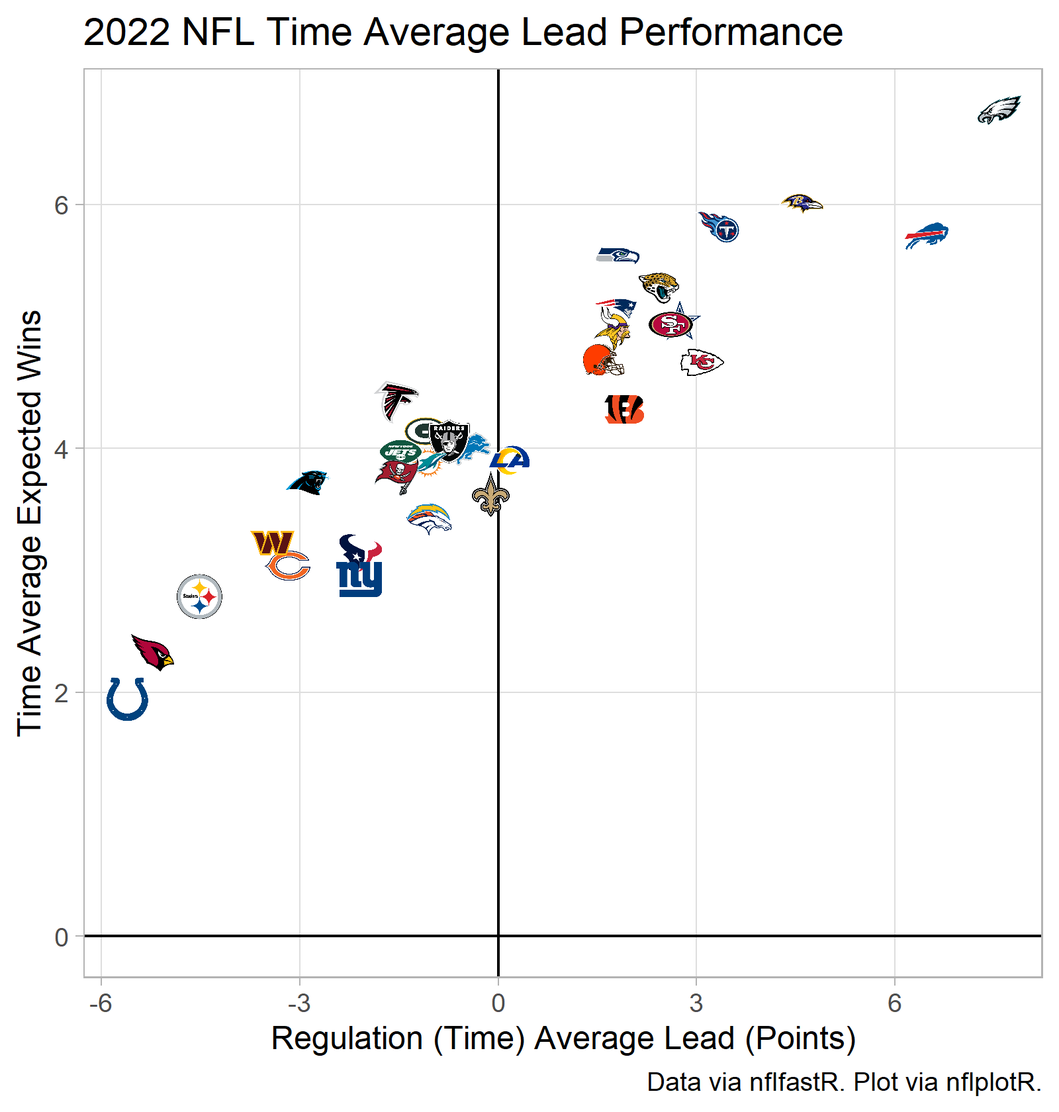
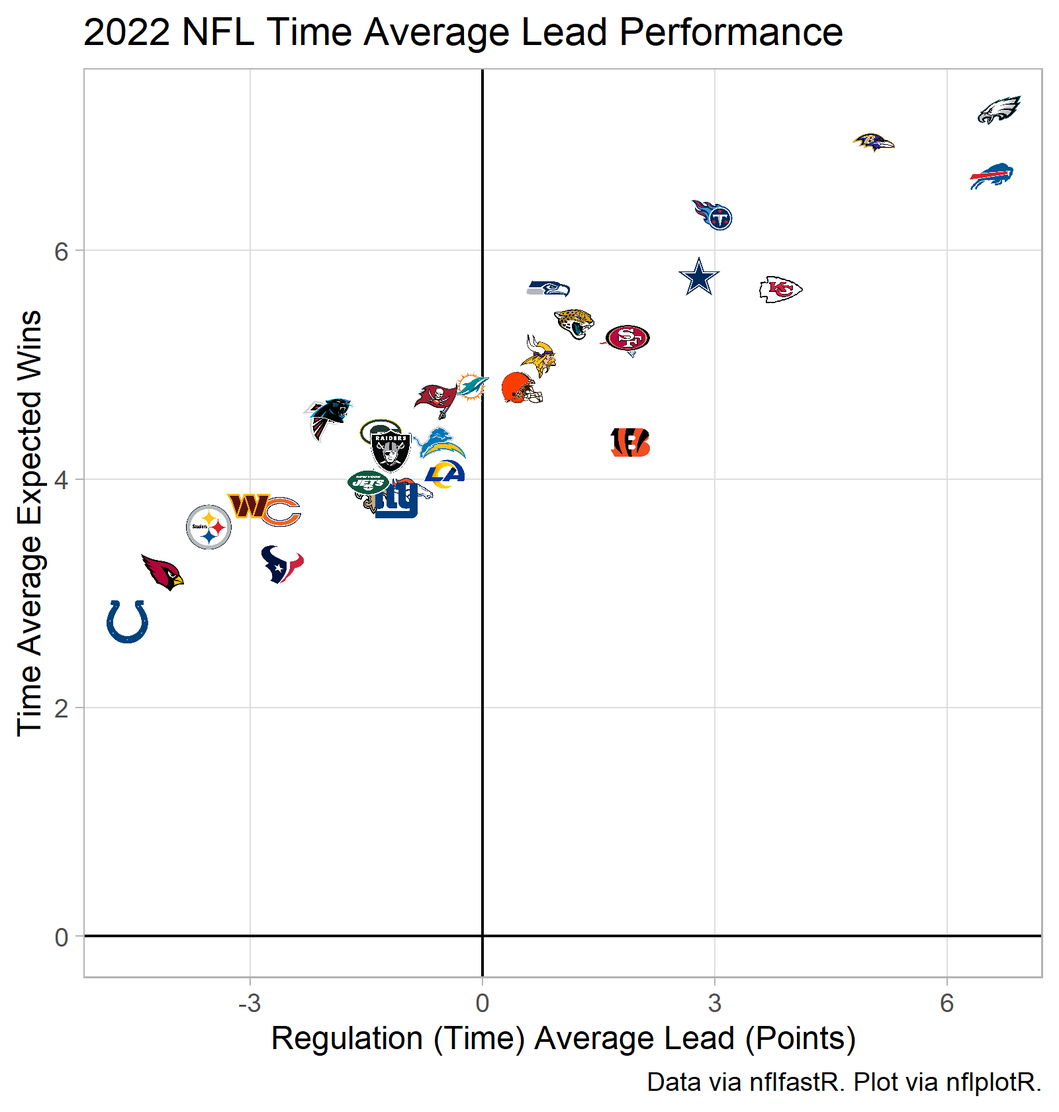
Week 10

diff --git a/docs/2022-nfl-team-metrics.html b/docs/2022-nfl-team-metrics.html
@@ -94,8 +94,8 @@ code span.wa { color: #5e5e5e; font-style: italic; } /* Warning */
 
 
   <!--  https://schema.org/Article -->
-  <meta property="article:published" itemprop="datePublished" content="2022-11-07"/>
-  <meta property="article:created" itemprop="dateCreated" content="2022-11-07"/>
+  <meta property="article:published" itemprop="datePublished" content="2022-11-15"/>
+  <meta property="article:created" itemprop="dateCreated" content="2022-11-15"/>
   <meta name="article:author" content="Casey Caprini"/>
 
   <!--  https://developers.facebook.com/docs/sharing/webmasters#markup -->
@@ -114,7 +114,7 @@ code span.wa { color: #5e5e5e; font-style: italic; } /* Warning */
   <!--radix_placeholder_rmarkdown_metadata-->
 
   <script type="text/json" id="radix-rmarkdown-metadata">
-  {"type":"list","attributes":{"names":{"type":"character","attributes":{},"value":["title","description","author","date","output"]}},"value":[{"type":"character","attributes":{},"value":["2022 NFL Team Metrics"]},{"type":"character","attributes":{},"value":["Team time average metrics for the 2021 regular season.\n"]},{"type":"list","attributes":{},"value":[{"type":"list","attributes":{"names":{"type":"character","attributes":{},"value":["name"]}},"value":[{"type":"character","attributes":{},"value":["Casey Caprini"]}]}]},{"type":"character","attributes":{},"value":["11-07-2022"]},{"type":"list","attributes":{"names":{"type":"character","attributes":{},"value":["distill::distill_article"]}},"value":[{"type":"list","attributes":{"names":{"type":"character","attributes":{},"value":["self_contained","code_folding"]}},"value":[{"type":"logical","attributes":{},"value":[false]},{"type":"logical","attributes":{},"value":[true]}]}]}]}
+  {"type":"list","attributes":{"names":{"type":"character","attributes":{},"value":["title","description","author","date","output"]}},"value":[{"type":"character","attributes":{},"value":["2022 NFL Team Metrics"]},{"type":"character","attributes":{},"value":["Team time average metrics for the 2021 regular season.\n"]},{"type":"list","attributes":{},"value":[{"type":"list","attributes":{"names":{"type":"character","attributes":{},"value":["name"]}},"value":[{"type":"character","attributes":{},"value":["Casey Caprini"]}]}]},{"type":"character","attributes":{},"value":["11-15-2022"]},{"type":"list","attributes":{"names":{"type":"character","attributes":{},"value":["distill::distill_article"]}},"value":[{"type":"list","attributes":{"names":{"type":"character","attributes":{},"value":["self_contained","code_folding"]}},"value":[{"type":"logical","attributes":{},"value":[false]},{"type":"logical","attributes":{},"value":[true]}]}]}]}
   </script>
   <!--/radix_placeholder_rmarkdown_metadata-->
   <!--radix_placeholder_navigation_in_header-->
@@ -2408,7 +2408,7 @@ code span.wa { color: #5e5e5e; font-style: italic; } /* Warning */
 <!--radix_placeholder_front_matter-->
 
 <script id="distill-front-matter" type="text/json">
-{"title":"2022 NFL Team Metrics","description":"Team time average metrics for the 2021 regular season.","authors":[{"author":"Casey Caprini","authorURL":"#","affiliation":"&nbsp;","affiliationURL":"#","orcidID":""}],"publishedDate":"2022-11-07T00:00:00.000-05:00","citationText":"Caprini, 2022"}
+{"title":"2022 NFL Team Metrics","description":"Team time average metrics for the 2021 regular season.","authors":[{"author":"Casey Caprini","authorURL":"#","affiliation":"&nbsp;","affiliationURL":"#","orcidID":""}],"publishedDate":"2022-11-15T00:00:00.000-05:00","citationText":"Caprini, 2022"}
 </script>
 
 <!--/radix_placeholder_front_matter-->
@@ -2441,7 +2441,7 @@ code span.wa { color: #5e5e5e; font-style: italic; } /* Warning */
 <div class="d-byline">
   Casey Caprini  
   
-<br/>11-07-2022
+<br/>11-15-2022
 </div>
 
 <div class="d-article">
@@ -2767,8 +2767,8 @@ Show code
 <span>  <span class='op'>)</span></span></code></pre>
 </div>
 </details>
-<div id="htmlwidget-0416868e520f3045ae74" class="reactable html-widget" style="width:auto;height:675px;"></div>
-<script type="application/json" data-for="htmlwidget-0416868e520f3045ae74">{"x":{"tag":{"name":"Reactable","attribs":{"data":{"team_logo_espn":["https://a.espncdn.com/i/teamlogos/nfl/500/ari.png","https://a.espncdn.com/i/teamlogos/nfl/500/atl.png","https://a.espncdn.com/i/teamlogos/nfl/500/bal.png","https://a.espncdn.com/i/teamlogos/nfl/500/buf.png","https://a.espncdn.com/i/teamlogos/nfl/500-dark/car.png","https://a.espncdn.com/i/teamlogos/nfl/500/chi.png","https://a.espncdn.com/i/teamlogos/nfl/500/cin.png","https://a.espncdn.com/i/teamlogos/nfl/500/cle.png","https://a.espncdn.com/i/teamlogos/nfl/500/dal.png","https://a.espncdn.com/i/teamlogos/nfl/500/den.png","https://a.espncdn.com/i/teamlogos/nfl/500/det.png","https://a.espncdn.com/i/teamlogos/nfl/500/gb.png","https://a.espncdn.com/i/teamlogos/nfl/500/hou.png","https://a.espncdn.com/i/teamlogos/nfl/500/ind.png","https://a.espncdn.com/i/teamlogos/nfl/500/jax.png","https://a.espncdn.com/i/teamlogos/nfl/500/kc.png","https://a.espncdn.com/i/teamlogos/nfl/500/lar.png","https://a.espncdn.com/i/teamlogos/nfl/500/lac.png","https://a.espncdn.com/i/teamlogos/nfl/500/lv.png","https://a.espncdn.com/i/teamlogos/nfl/500/mia.png","https://a.espncdn.com/i/teamlogos/nfl/500/min.png","https://a.espncdn.com/i/teamlogos/nfl/500/ne.png","https://a.espncdn.com/i/teamlogos/nfl/500/no.png","https://a.espncdn.com/i/teamlogos/nfl/500/nyg.png","https://a.espncdn.com/i/teamlogos/nfl/500/nyj.png","https://a.espncdn.com/i/teamlogos/nfl/500/phi.png","https://a.espncdn.com/i/teamlogos/nfl/500/pit.png","https://a.espncdn.com/i/teamlogos/nfl/500/sea.png","https://a.espncdn.com/i/teamlogos/nfl/500/sf.png","https://a.espncdn.com/i/teamlogos/nfl/500/tb.png","https://a.espncdn.com/i/teamlogos/nfl/500/ten.png","https://a.espncdn.com/i/teamlogos/nfl/500/wsh.png"],"team":["ARI","ATL","BAL","BUF","CAR","CHI","CIN","CLE","DAL","DEN","DET","GB","HOU","IND","JAX","KC","LA","LAC","LV","MIA","MIN","NE","NO","NYG","NYJ","PHI","PIT","SEA","SF","TB","TEN","WAS"],"time_avg_lead":[-5.24638888888889,-1.53737654320988,4.56972222222222,6.46895833333333,-2.88175925925926,-3.195,1.89237654320988,1.58895833333333,2.74166666666667,-1.0534375,-0.4453125,-1.10191358024691,-2.08736111111111,-5.61283950617284,2.42382716049383,3.08288194444444,0.161875,-1.056875,-0.753645833333334,-1.11808641975309,1.71614583333333,1.76154320987654,-0.123576388888889,-2.11173611111111,-1.47654320987654,7.57194444444445,-4.52416666666667,1.79777777777778,2.60368055555556,-1.53626543209877,3.308125,-3.42077160493827],"time_avg_wins":[2.331383292805,4.38582860768579,6.00775193812035,5.7401450939121,3.72009131795424,3.04255111416241,4.3262408534412,4.7338795270845,5.05705477499264,3.39728778031768,4.00355553134249,4.14336708584526,3.14041542373967,1.94935839527836,5.31693838613067,4.70800370703468,3.90715597699158,3.47993590321239,4.06201529910191,3.88682149017496,4.98620650568551,5.14944181770693,3.63109819771657,2.92842482468215,3.97722093136563,6.77530291120617,2.79159953433648,5.58473126388686,5.01660984413985,3.77492102538644,5.81592038341018,3.22874126114937],"off_yards_per_snap":[4.54242424242424,5.28284671532847,5.62671905697446,6.33458646616541,4.95173745173745,5.06654991243433,5.34789644012945,5.49023090586146,5.16064257028112,4.85792349726776,5.53672316384181,5.28619528619529,4.72727272727273,4.47460317460317,5.36319218241042,5.74295774647887,4.38019801980198,5.01036269430052,5.30155642023346,6.13660245183888,5.17962962962963,4.97894736842105,5.65755919854281,4.69485294117647,4.8914858096828,5.50177935943061,4.28438661710037,5.66434782608696,5.375,4.7373417721519,4.57838983050847,4.72567783094099],"off_adj_yards_per_snap":[4.87550062130852,5.21151776686432,5.34954090091006,5.61720047795347,5.0727719148855,5.11705988825841,5.23288523494982,5.28471213250254,5.15340107381507,5.03182187191219,5.31111761517851,5.20929081184477,4.99651687090018,4.85304244137086,5.24575176760993,5.40673281456351,4.87752700277674,5.08433940122534,5.20701290085607,5.55341453793627,5.14401774978946,5.06647514343434,5.34956508989635,4.96684795881869,5.04672066817216,5.27602260844645,4.82524884772622,5.35039282028633,5.23565929985529,4.96644251375825,4.93609836370023,4.96883942283053],"def_yards_per_snap":[5.51575456053068,5.68690095846645,5.48794063079777,4.53980582524272,5.0606531881804,5.63055062166963,5.0472027972028,5.33266129032258,4.31729055258467,4.1505376344086,6.0054347826087,5.02573529411765,5.71071428571429,4.84110535405872,5.12892561983471,5.20037105751392,5.0224032586558,5.58613861386139,5.40934579439252,5.61158432708688,5.35120147874307,5.02401372212693,5.1259842519685,5.23404255319149,4.73008130081301,4.47091932457786,5.46631205673759,5.22979397781299,4.55,4.70252100840336,5.12093862815884,5.37005163511188],"def_adj_yards_per_snap":[5.21543161450674,5.28050925083574,5.21102948632449,5.02553244698646,5.1374091348063,5.2611255083274,5.11317256622613,5.19703040405683,4.97718704986374,4.93388541591244,5.32675387425622,5.12832833525699,5.29262894539294,5.09165386561763,5.17488735051946,5.17041822228306,5.12530665863466,5.22677282439352,5.214713356247,5.24542788928159,5.18076466946319,5.11614036048043,5.15064540769243,5.16225940245811,5.02947629432507,5.02476596618873,5.20234386612322,5.18119122349244,5.03660931950165,5.0383003929995,5.14767170205918,5.20411572982393],"yards_per_snap_diff":[-0.973330318106438,-0.404054243137987,0.138778426176685,1.7947806409227,-0.108915736442952,-0.564000709235302,0.300693642926652,0.157569615538875,0.843352017696454,0.707385862859158,-0.468711618766887,0.26045999207764,-0.983441558441558,-0.366502179455547,0.234266562575713,0.542586688964958,-0.642205238853824,-0.575775919560868,-0.107789374159061,0.525018124751996,-0.171571849113438,-0.0450663537058773,0.531574946574302,-0.539189612015019,0.161404508869796,1.03086003485274,-1.18192543963722,0.434553848273961,0.825,0.0348207637485372,-0.54254879765037,-0.644373804170887],"adj_yards_per_snap_diff":[-0.339930993198215,-0.0689914839714181,0.138511414585577,0.591668030967008,-0.0646372199208018,-0.144065620068984,0.119712668723686,0.0876817284457063,0.176214023951335,0.0979364559997515,-0.0156362590777066,0.0809624765877857,-0.296112074492759,-0.238611424246769,0.0708644170904691,0.236314592280448,-0.247779655857921,-0.142433423168178,-0.00770045539093012,0.307986648654683,-0.03674691967373,-0.0496652170460941,0.19891968220392,-0.195411443639425,0.0172443738470838,0.251256642257725,-0.377095018397005,0.169201596793886,0.199049980353641,-0.0718578792412501,-0.211573338358959,-0.235276306993403]},"columns":[{"accessor":"team_logo_espn","name":" ","type":"character","format":{"cell":{"digits":1},"aggregated":{"digits":1}},"align":"center","sortable":false,"cell":[{"name":"Fragment","attribs":[],"children":[{"name":"div","attribs":{"style":{"display":"flex","justifyContent":"center"}},"children":[{"name":"img","attribs":{"src":"https://a.espncdn.com/i/teamlogos/nfl/500/ari.png","align":"center","height":24,"width":24},"children":[]}]}]},{"name":"Fragment","attribs":[],"children":[{"name":"div","attribs":{"style":{"display":"flex","justifyContent":"center"}},"children":[{"name":"img","attribs":{"src":"https://a.espncdn.com/i/teamlogos/nfl/500/atl.png","align":"center","height":24,"width":24},"children":[]}]}]},{"name":"Fragment","attribs":[],"children":[{"name":"div","attribs":{"style":{"display":"flex","justifyContent":"center"}},"children":[{"name":"img","attribs":{"src":"https://a.espncdn.com/i/teamlogos/nfl/500/bal.png","align":"center","height":24,"width":24},"children":[]}]}]},{"name":"Fragment","attribs":[],"children":[{"name":"div","attribs":{"style":{"display":"flex","justifyContent":"center"}},"children":[{"name":"img","attribs":{"src":"https://a.espncdn.com/i/teamlogos/nfl/500/buf.png","align":"center","height":24,"width":24},"children":[]}]}]},{"name":"Fragment","attribs":[],"children":[{"name":"div","attribs":{"style":{"display":"flex","justifyContent":"center"}},"children":[{"name":"img","attribs":{"src":"https://a.espncdn.com/i/teamlogos/nfl/500-dark/car.png","align":"center","height":24,"width":24},"children":[]}]}]},{"name":"Fragment","attribs":[],"children":[{"name":"div","attribs":{"style":{"display":"flex","justifyContent":"center"}},"children":[{"name":"img","attribs":{"src":"https://a.espncdn.com/i/teamlogos/nfl/500/chi.png","align":"center","height":24,"width":24},"children":[]}]}]},{"name":"Fragment","attribs":[],"children":[{"name":"div","attribs":{"style":{"display":"flex","justifyContent":"center"}},"children":[{"name":"img","attribs":{"src":"https://a.espncdn.com/i/teamlogos/nfl/500/cin.png","align":"center","height":24,"width":24},"children":[]}]}]},{"name":"Fragment","attribs":[],"children":[{"name":"div","attribs":{"style":{"display":"flex","justifyContent":"center"}},"children":[{"name":"img","attribs":{"src":"https://a.espncdn.com/i/teamlogos/nfl/500/cle.png","align":"center","height":24,"width":24},"children":[]}]}]},{"name":"Fragment","attribs":[],"children":[{"name":"div","attribs":{"style":{"display":"flex","justifyContent":"center"}},"children":[{"name":"img","attribs":{"src":"https://a.espncdn.com/i/teamlogos/nfl/500/dal.png","align":"center","height":24,"width":24},"children":[]}]}]},{"name":"Fragment","attribs":[],"children":[{"name":"div","attribs":{"style":{"display":"flex","justifyContent":"center"}},"children":[{"name":"img","attribs":{"src":"https://a.espncdn.com/i/teamlogos/nfl/500/den.png","align":"center","height":24,"width":24},"children":[]}]}]},{"name":"Fragment","attribs":[],"children":[{"name":"div","attribs":{"style":{"display":"flex","justifyContent":"center"}},"children":[{"name":"img","attribs":{"src":"https://a.espncdn.com/i/teamlogos/nfl/500/det.png","align":"center","height":24,"width":24},"children":[]}]}]},{"name":"Fragment","attribs":[],"children":[{"name":"div","attribs":{"style":{"display":"flex","justifyContent":"center"}},"children":[{"name":"img","attribs":{"src":"https://a.espncdn.com/i/teamlogos/nfl/500/gb.png","align":"center","height":24,"width":24},"children":[]}]}]},{"name":"Fragment","attribs":[],"children":[{"name":"div","attribs":{"style":{"display":"flex","justifyContent":"center"}},"children":[{"name":"img","attribs":{"src":"https://a.espncdn.com/i/teamlogos/nfl/500/hou.png","align":"center","height":24,"width":24},"children":[]}]}]},{"name":"Fragment","attribs":[],"children":[{"name":"div","attribs":{"style":{"display":"flex","justifyContent":"center"}},"children":[{"name":"img","attribs":{"src":"https://a.espncdn.com/i/teamlogos/nfl/500/ind.png","align":"center","height":24,"width":24},"children":[]}]}]},{"name":"Fragment","attribs":[],"children":[{"name":"div","attribs":{"style":{"display":"flex","justifyContent":"center"}},"children":[{"name":"img","attribs":{"src":"https://a.espncdn.com/i/teamlogos/nfl/500/jax.png","align":"center","height":24,"width":24},"children":[]}]}]},{"name":"Fragment","attribs":[],"children":[{"name":"div","attribs":{"style":{"display":"flex","justifyContent":"center"}},"children":[{"name":"img","attribs":{"src":"https://a.espncdn.com/i/teamlogos/nfl/500/kc.png","align":"center","height":24,"width":24},"children":[]}]}]},{"name":"Fragment","attribs":[],"children":[{"name":"div","attribs":{"style":{"display":"flex","justifyContent":"center"}},"children":[{"name":"img","attribs":{"src":"https://a.espncdn.com/i/teamlogos/nfl/500/lar.png","align":"center","height":24,"width":24},"children":[]}]}]},{"name":"Fragment","attribs":[],"children":[{"name":"div","attribs":{"style":{"display":"flex","justifyContent":"center"}},"children":[{"name":"img","attribs":{"src":"https://a.espncdn.com/i/teamlogos/nfl/500/lac.png","align":"center","height":24,"width":24},"children":[]}]}]},{"name":"Fragment","attribs":[],"children":[{"name":"div","attribs":{"style":{"display":"flex","justifyContent":"center"}},"children":[{"name":"img","attribs":{"src":"https://a.espncdn.com/i/teamlogos/nfl/500/lv.png","align":"center","height":24,"width":24},"children":[]}]}]},{"name":"Fragment","attribs":[],"children":[{"name":"div","attribs":{"style":{"display":"flex","justifyContent":"center"}},"children":[{"name":"img","attribs":{"src":"https://a.espncdn.com/i/teamlogos/nfl/500/mia.png","align":"center","height":24,"width":24},"children":[]}]}]},{"name":"Fragment","attribs":[],"children":[{"name":"div","attribs":{"style":{"display":"flex","justifyContent":"center"}},"children":[{"name":"img","attribs":{"src":"https://a.espncdn.com/i/teamlogos/nfl/500/min.png","align":"center","height":24,"width":24},"children":[]}]}]},{"name":"Fragment","attribs":[],"children":[{"name":"div","attribs":{"style":{"display":"flex","justifyContent":"center"}},"children":[{"name":"img","attribs":{"src":"https://a.espncdn.com/i/teamlogos/nfl/500/ne.png","align":"center","height":24,"width":24},"children":[]}]}]},{"name":"Fragment","attribs":[],"children":[{"name":"div","attribs":{"style":{"display":"flex","justifyContent":"center"}},"children":[{"name":"img","attribs":{"src":"https://a.espncdn.com/i/teamlogos/nfl/500/no.png","align":"center","height":24,"width":24},"children":[]}]}]},{"name":"Fragment","attribs":[],"children":[{"name":"div","attribs":{"style":{"display":"flex","justifyContent":"center"}},"children":[{"name":"img","attribs":{"src":"https://a.espncdn.com/i/teamlogos/nfl/500/nyg.png","align":"center","height":24,"width":24},"children":[]}]}]},{"name":"Fragment","attribs":[],"children":[{"name":"div","attribs":{"style":{"display":"flex","justifyContent":"center"}},"children":[{"name":"img","attribs":{"src":"https://a.espncdn.com/i/teamlogos/nfl/500/nyj.png","align":"center","height":24,"width":24},"children":[]}]}]},{"name":"Fragment","attribs":[],"children":[{"name":"div","attribs":{"style":{"display":"flex","justifyContent":"center"}},"children":[{"name":"img","attribs":{"src":"https://a.espncdn.com/i/teamlogos/nfl/500/phi.png","align":"center","height":24,"width":24},"children":[]}]}]},{"name":"Fragment","attribs":[],"children":[{"name":"div","attribs":{"style":{"display":"flex","justifyContent":"center"}},"children":[{"name":"img","attribs":{"src":"https://a.espncdn.com/i/teamlogos/nfl/500/pit.png","align":"center","height":24,"width":24},"children":[]}]}]},{"name":"Fragment","attribs":[],"children":[{"name":"div","attribs":{"style":{"display":"flex","justifyContent":"center"}},"children":[{"name":"img","attribs":{"src":"https://a.espncdn.com/i/teamlogos/nfl/500/sea.png","align":"center","height":24,"width":24},"children":[]}]}]},{"name":"Fragment","attribs":[],"children":[{"name":"div","attribs":{"style":{"display":"flex","justifyContent":"center"}},"children":[{"name":"img","attribs":{"src":"https://a.espncdn.com/i/teamlogos/nfl/500/sf.png","align":"center","height":24,"width":24},"children":[]}]}]},{"name":"Fragment","attribs":[],"children":[{"name":"div","attribs":{"style":{"display":"flex","justifyContent":"center"}},"children":[{"name":"img","attribs":{"src":"https://a.espncdn.com/i/teamlogos/nfl/500/tb.png","align":"center","height":24,"width":24},"children":[]}]}]},{"name":"Fragment","attribs":[],"children":[{"name":"div","attribs":{"style":{"display":"flex","justifyContent":"center"}},"children":[{"name":"img","attribs":{"src":"https://a.espncdn.com/i/teamlogos/nfl/500/ten.png","align":"center","height":24,"width":24},"children":[]}]}]},{"name":"Fragment","attribs":[],"children":[{"name":"div","attribs":{"style":{"display":"flex","justifyContent":"center"}},"children":[{"name":"img","attribs":{"src":"https://a.espncdn.com/i/teamlogos/nfl/500/wsh.png","align":"center","height":24,"width":24},"children":[]}]}]}],"width":40,"style":{"position":"sticky","left":0,"background":"#fff","zIndex":1}},{"accessor":"team","name":"Team","type":"character","format":{"cell":{"digits":1},"aggregated":{"digits":1}},"align":"center","width":60,"style":{"position":"sticky","left":40,"background":"#fff","zIndex":1}},{"accessor":"time_avg_lead","name":"Time Average Lead","type":"numeric","format":{"cell":{"digits":1},"aggregated":{"digits":1}},"align":"center"},{"accessor":"time_avg_wins","name":"Expected Wins","type":"numeric","format":{"cell":{"digits":1},"aggregated":{"digits":1}},"align":"center"},{"accessor":"off_yards_per_snap","name":"Yards/Snap","type":"numeric","format":{"cell":{"digits":1},"aggregated":{"digits":1}},"align":"center"},{"accessor":"off_adj_yards_per_snap","name":"Adj Yards/Snap","type":"numeric","format":{"cell":{"digits":1},"aggregated":{"digits":1}},"align":"center"},{"accessor":"def_yards_per_snap","name":"Yards/Snap","type":"numeric","format":{"cell":{"digits":1},"aggregated":{"digits":1}},"align":"center"},{"accessor":"def_adj_yards_per_snap","name":"Adj Yards/Snap","type":"numeric","format":{"cell":{"digits":1},"aggregated":{"digits":1}},"align":"center"},{"accessor":"yards_per_snap_diff","name":"Yards/Snap Diff","type":"numeric","format":{"cell":{"digits":2},"aggregated":{"digits":2}},"align":"center"},{"accessor":"adj_yards_per_snap_diff","name":"Adj Yards/Snap Diff","type":"numeric","format":{"cell":{"digits":2},"aggregated":{"digits":2}},"align":"center"}],"columnGroups":[{"name":"Time Average Stats","columns":["time_avg_lead","time_avg_wins"]},{"name":"Offense","columns":["off_yards_per_snap","off_adj_yards_per_snap"]},{"name":"Defense","columns":["def_yards_per_snap","def_adj_yards_per_snap"]},{"name":"Differential","columns":["yards_per_snap_diff","adj_yards_per_snap_diff"]}],"defaultSortDesc":true,"defaultSorted":[{"id":"time_avg_lead","desc":true}],"pagination":false,"defaultPageSize":10,"paginationType":"numbers","showPageInfo":true,"minRows":1,"highlight":true,"bordered":true,"height":"675px","theme":{"color":"#878e94","backgroundColor":"#ffffff","borderWidth":"0px","stripedColor":"#f9f9fb","highlightColor":"#f1f3f4","cellPadding":4,"tableStyle":{"fontSize":16},"headerStyle":{"borderWidth":"1px","padding":"7px","borderTop":"1px solid #595d63","backgroundColor":"#595d63","textTransform":"uppercase","borderColor":"#595d63","color":"#ffffff","transitionDuration":"0.1s","&:hover[aria-sort]":{"backgroundColor":"#4d5056","color":"#ffffff"},"&[aria-sort='ascending']":{"backgroundColor":"#393c40","color":"#ffffff","boxShadow":"inset 0 3px 0 0 #ffffff"},"&[aria-sort='descending']":{"backgroundColor":"#393c40","color":"#ffffff","boxShadow":"inset 0 -3px 0 0 #ffffff"},"fontSize":12,"fontWeight":"bold"},"groupHeaderStyle":{"&:not(:empty)":{"backgroundColor":"#e4e8ed","textTransform":"uppercase","fontWeight":"bold","color":"#878e94","fontSize":12,"boxShadow":"inset 3px 0 0 0 #ffffff"}},"rowSelectedStyle":{"backgroundColor":"#e4e8ed"},"inputStyle":{"backgroundColor":"#ffffff","color":"#878e94"},"searchInputStyle":{"fontSize":"14px","textTransform":"uppercase","backgroundColor":"#ffffff","color":"#878e94","&:focus":{"color":"#878e94"}},"selectStyle":{"backgroundColor":"#073c57","color":"#ffffff","borderColor":"#ffffff","outlineColor":"#ffffff"},"paginationStyle":{"textTransform":"uppercase","fontSize":"15px"},"pageButtonStyle":{"textTransform":"uppercase","fontSize":"15px","backgroundColor":"#ffffff","color":"#164861","&:hover":{"backgroundColor":"#052c3f","color":"#ffffff"}},"pageButtonHoverStyle":{"backgroundColor":"#052c3f","color":"#ffffff"},"pageButtonActiveStyle":{"backgroundColor":"#073c57","color":"#ffffff"},"pageButtonCurrentStyle":{"backgroundColor":"#073c57","color":"#ffffff"}},"dataKey":"65013479d4fa25aebbe3c12b3f5214ae"},"children":[]},"class":"reactR_markup"},"evals":[],"jsHooks":[]}</script>
+<div id="htmlwidget-ec0e6b16df1363bb1438" class="reactable html-widget" style="width:auto;height:675px;"></div>
+<script type="application/json" data-for="htmlwidget-ec0e6b16df1363bb1438">{"x":{"tag":{"name":"Reactable","attribs":{"data":{"team_logo_espn":["https://a.espncdn.com/i/teamlogos/nfl/500/ari.png","https://a.espncdn.com/i/teamlogos/nfl/500/atl.png","https://a.espncdn.com/i/teamlogos/nfl/500/bal.png","https://a.espncdn.com/i/teamlogos/nfl/500/buf.png","https://a.espncdn.com/i/teamlogos/nfl/500-dark/car.png","https://a.espncdn.com/i/teamlogos/nfl/500/chi.png","https://a.espncdn.com/i/teamlogos/nfl/500/cin.png","https://a.espncdn.com/i/teamlogos/nfl/500/cle.png","https://a.espncdn.com/i/teamlogos/nfl/500/dal.png","https://a.espncdn.com/i/teamlogos/nfl/500/den.png","https://a.espncdn.com/i/teamlogos/nfl/500/det.png","https://a.espncdn.com/i/teamlogos/nfl/500/gb.png","https://a.espncdn.com/i/teamlogos/nfl/500/hou.png","https://a.espncdn.com/i/teamlogos/nfl/500/ind.png","https://a.espncdn.com/i/teamlogos/nfl/500/jax.png","https://a.espncdn.com/i/teamlogos/nfl/500/kc.png","https://a.espncdn.com/i/teamlogos/nfl/500/lar.png","https://a.espncdn.com/i/teamlogos/nfl/500/lac.png","https://a.espncdn.com/i/teamlogos/nfl/500/lv.png","https://a.espncdn.com/i/teamlogos/nfl/500/mia.png","https://a.espncdn.com/i/teamlogos/nfl/500/min.png","https://a.espncdn.com/i/teamlogos/nfl/500/ne.png","https://a.espncdn.com/i/teamlogos/nfl/500/no.png","https://a.espncdn.com/i/teamlogos/nfl/500/nyg.png","https://a.espncdn.com/i/teamlogos/nfl/500/nyj.png","https://a.espncdn.com/i/teamlogos/nfl/500/phi.png","https://a.espncdn.com/i/teamlogos/nfl/500/pit.png","https://a.espncdn.com/i/teamlogos/nfl/500/sea.png","https://a.espncdn.com/i/teamlogos/nfl/500/sf.png","https://a.espncdn.com/i/teamlogos/nfl/500/tb.png","https://a.espncdn.com/i/teamlogos/nfl/500/ten.png","https://a.espncdn.com/i/teamlogos/nfl/500/wsh.png"],"team":["ARI","ATL","BAL","BUF","CAR","CHI","CIN","CLE","DAL","DEN","DET","GB","HOU","IND","JAX","KC","LA","LAC","LV","MIA","MIN","NE","NO","NYG","NYJ","PHI","PIT","SEA","SF","TB","TEN","WAS"],"time_avg_lead":[-4.143,-2.03191666666667,5.03435185185185,6.56422839506173,-1.94530555555556,-2.64238888888889,1.89237654320988,0.512283950617284,2.79361111111111,-0.93070987654321,-0.654845679012346,-1.31263888888889,-2.5920987654321,-4.58661111111111,1.17733333333333,3.85601851851852,-0.499166666666667,-0.499382716049383,-1.18651234567901,-0.196166666666667,0.71141975308642,1.76154320987654,-1.41261111111111,-1.14043209876543,-1.47654320987654,6.66719135802469,-3.53413580246914,0.844472222222222,1.87432098765432,-0.609111111111111,2.93487654320988,-3.02161111111111],"time_avg_wins":[3.18881556213732,4.50402090089957,6.94553728655957,6.64660702748456,4.60189902474046,3.71574018990607,4.3262408534412,4.80894623616012,5.78709795575564,3.90124880856231,4.33036645559883,4.41332390508226,3.25393336397291,2.75801857650448,5.35952299559142,5.66541909757392,4.04972370765926,4.25336432643312,4.25335511787579,4.81175478109935,5.07974457211305,5.14944181770693,3.89760281683306,3.81490688444891,3.97722093136563,7.23117841163086,3.58730956678077,5.66806147767994,5.24318142091912,4.69159081159336,6.31195935516555,3.77286576072469],"off_yards_per_snap":[4.49245541838134,5.20491803278689,5.48096885813149,6.30327868852459,4.88415672913118,5.19936708860759,5.34789644012945,5.38095238095238,5.1394148020654,4.73217115689382,5.5152027027027,5.38449848024316,4.83392857142857,4.67485549132948,5.29203539823009,5.95873015873016,4.32280701754386,4.94670846394984,5.16123499142367,6.28526645768025,5.25361155698234,4.97894736842105,5.40184049079755,4.74959349593496,4.8914858096828,5.47634584013051,4.38969404186795,5.64593301435407,5.36040609137056,4.87731811697575,4.59439252336449,4.65021156558533],"off_adj_yards_per_snap":[4.81443090087255,5.18171720122768,5.30963864167038,5.68415036043219,5.0238829176357,5.16480983706767,5.24132017645793,5.25374520872609,5.14548691916373,4.95073971837095,5.3166384125296,5.26719510662215,5.01488822236276,4.90885637459755,5.22170677001515,5.5388490541351,4.80316054313682,5.04282184883579,5.15849043319695,5.6767764079059,5.19025846021132,5.06205267056378,5.25899099628249,4.95331732628401,5.03926039731874,5.27593332128278,4.81590044046485,5.37419123465982,5.23989663969639,5.01419100582218,4.91740361577613,4.91043765672331],"def_yards_per_snap":[5.3562874251497,5.5568345323741,5.38279932546374,4.7056856187291,5.01276595744681,5.60096153846154,5.0472027972028,5.59680284191829,4.52,4.20772946859903,6.0489396411093,5.02392344497608,5.64342313787639,4.76388888888889,5.38980509745127,5.13764510779436,4.89821428571429,5.54513888888889,5.54438860971524,5.49388379204893,5.44426494345719,5.02401372212693,5.04393939393939,5.28006872852234,4.73008130081301,4.41788617886179,5.32626427406199,5.32142857142857,4.52593917710197,4.76197836166924,4.9622641509434,5.3623417721519],"def_adj_yards_per_snap":[5.18760968693994,5.25930690884085,5.18184239343465,5.04664762648064,5.12772602389939,5.24918821834545,5.11633037186692,5.2451669047004,5.01201616838855,4.94150358486918,5.33961938485623,5.12154672559712,5.28875957603931,5.06865916241325,5.22985006645616,5.15221529155405,5.10434765154896,5.22189248122452,5.25580505412254,5.21485775489584,5.18837398336167,5.11063721216944,5.13502004576217,5.1759124810626,5.03001903978724,5.00817998836356,5.16424236169614,5.21627610975098,5.02895673343041,5.04610188038915,5.10673022790086,5.19579771989954],"yards_per_snap_diff":[-0.863832006768356,-0.351916499587215,0.0981695326677441,1.59759306979549,-0.128609228315633,-0.401594449853944,0.300693642926652,-0.215850460965913,0.619414802065405,0.524441688294785,-0.533736938406596,0.360575035267085,-0.809494566447816,-0.0890333975594091,-0.0977696992211863,0.821085050935797,-0.575407268170426,-0.598430424939046,-0.383153618291573,0.791382665631321,-0.190653386474846,-0.0450663537058773,0.357901096858152,-0.530475232587377,0.161404508869796,1.05845966126872,-0.936570232194035,0.324504442925496,0.834466914268591,0.115339755306506,-0.36787162757891,-0.712130206566568],"adj_yards_per_snap_diff":[-0.373178786067394,-0.0775897076131669,0.127796248235732,0.637502733951548,-0.103843106263694,-0.084378381277781,0.124989804591008,0.00857830402569348,0.133470750775179,0.00923613350177277,-0.0229809723266223,0.145648381025038,-0.273871353676554,-0.159802787815698,-0.00814329644101353,0.386633762581041,-0.301187108412138,-0.179070632388736,-0.0973146209255873,0.461918653010067,0.0018844768496491,-0.0485845416056661,0.123970950520322,-0.222595154778591,0.00924135753149891,0.267753332919227,-0.348341921231286,0.157915124908843,0.210939906265982,-0.0319108745669645,-0.189326612124735,-0.285360063176232]},"columns":[{"accessor":"team_logo_espn","name":" ","type":"character","format":{"cell":{"digits":1},"aggregated":{"digits":1}},"align":"center","sortable":false,"cell":[{"name":"Fragment","attribs":[],"children":[{"name":"div","attribs":{"style":{"display":"flex","justifyContent":"center"}},"children":[{"name":"img","attribs":{"src":"https://a.espncdn.com/i/teamlogos/nfl/500/ari.png","align":"center","height":24,"width":24},"children":[]}]}]},{"name":"Fragment","attribs":[],"children":[{"name":"div","attribs":{"style":{"display":"flex","justifyContent":"center"}},"children":[{"name":"img","attribs":{"src":"https://a.espncdn.com/i/teamlogos/nfl/500/atl.png","align":"center","height":24,"width":24},"children":[]}]}]},{"name":"Fragment","attribs":[],"children":[{"name":"div","attribs":{"style":{"display":"flex","justifyContent":"center"}},"children":[{"name":"img","attribs":{"src":"https://a.espncdn.com/i/teamlogos/nfl/500/bal.png","align":"center","height":24,"width":24},"children":[]}]}]},{"name":"Fragment","attribs":[],"children":[{"name":"div","attribs":{"style":{"display":"flex","justifyContent":"center"}},"children":[{"name":"img","attribs":{"src":"https://a.espncdn.com/i/teamlogos/nfl/500/buf.png","align":"center","height":24,"width":24},"children":[]}]}]},{"name":"Fragment","attribs":[],"children":[{"name":"div","attribs":{"style":{"display":"flex","justifyContent":"center"}},"children":[{"name":"img","attribs":{"src":"https://a.espncdn.com/i/teamlogos/nfl/500-dark/car.png","align":"center","height":24,"width":24},"children":[]}]}]},{"name":"Fragment","attribs":[],"children":[{"name":"div","attribs":{"style":{"display":"flex","justifyContent":"center"}},"children":[{"name":"img","attribs":{"src":"https://a.espncdn.com/i/teamlogos/nfl/500/chi.png","align":"center","height":24,"width":24},"children":[]}]}]},{"name":"Fragment","attribs":[],"children":[{"name":"div","attribs":{"style":{"display":"flex","justifyContent":"center"}},"children":[{"name":"img","attribs":{"src":"https://a.espncdn.com/i/teamlogos/nfl/500/cin.png","align":"center","height":24,"width":24},"children":[]}]}]},{"name":"Fragment","attribs":[],"children":[{"name":"div","attribs":{"style":{"display":"flex","justifyContent":"center"}},"children":[{"name":"img","attribs":{"src":"https://a.espncdn.com/i/teamlogos/nfl/500/cle.png","align":"center","height":24,"width":24},"children":[]}]}]},{"name":"Fragment","attribs":[],"children":[{"name":"div","attribs":{"style":{"display":"flex","justifyContent":"center"}},"children":[{"name":"img","attribs":{"src":"https://a.espncdn.com/i/teamlogos/nfl/500/dal.png","align":"center","height":24,"width":24},"children":[]}]}]},{"name":"Fragment","attribs":[],"children":[{"name":"div","attribs":{"style":{"display":"flex","justifyContent":"center"}},"children":[{"name":"img","attribs":{"src":"https://a.espncdn.com/i/teamlogos/nfl/500/den.png","align":"center","height":24,"width":24},"children":[]}]}]},{"name":"Fragment","attribs":[],"children":[{"name":"div","attribs":{"style":{"display":"flex","justifyContent":"center"}},"children":[{"name":"img","attribs":{"src":"https://a.espncdn.com/i/teamlogos/nfl/500/det.png","align":"center","height":24,"width":24},"children":[]}]}]},{"name":"Fragment","attribs":[],"children":[{"name":"div","attribs":{"style":{"display":"flex","justifyContent":"center"}},"children":[{"name":"img","attribs":{"src":"https://a.espncdn.com/i/teamlogos/nfl/500/gb.png","align":"center","height":24,"width":24},"children":[]}]}]},{"name":"Fragment","attribs":[],"children":[{"name":"div","attribs":{"style":{"display":"flex","justifyContent":"center"}},"children":[{"name":"img","attribs":{"src":"https://a.espncdn.com/i/teamlogos/nfl/500/hou.png","align":"center","height":24,"width":24},"children":[]}]}]},{"name":"Fragment","attribs":[],"children":[{"name":"div","attribs":{"style":{"display":"flex","justifyContent":"center"}},"children":[{"name":"img","attribs":{"src":"https://a.espncdn.com/i/teamlogos/nfl/500/ind.png","align":"center","height":24,"width":24},"children":[]}]}]},{"name":"Fragment","attribs":[],"children":[{"name":"div","attribs":{"style":{"display":"flex","justifyContent":"center"}},"children":[{"name":"img","attribs":{"src":"https://a.espncdn.com/i/teamlogos/nfl/500/jax.png","align":"center","height":24,"width":24},"children":[]}]}]},{"name":"Fragment","attribs":[],"children":[{"name":"div","attribs":{"style":{"display":"flex","justifyContent":"center"}},"children":[{"name":"img","attribs":{"src":"https://a.espncdn.com/i/teamlogos/nfl/500/kc.png","align":"center","height":24,"width":24},"children":[]}]}]},{"name":"Fragment","attribs":[],"children":[{"name":"div","attribs":{"style":{"display":"flex","justifyContent":"center"}},"children":[{"name":"img","attribs":{"src":"https://a.espncdn.com/i/teamlogos/nfl/500/lar.png","align":"center","height":24,"width":24},"children":[]}]}]},{"name":"Fragment","attribs":[],"children":[{"name":"div","attribs":{"style":{"display":"flex","justifyContent":"center"}},"children":[{"name":"img","attribs":{"src":"https://a.espncdn.com/i/teamlogos/nfl/500/lac.png","align":"center","height":24,"width":24},"children":[]}]}]},{"name":"Fragment","attribs":[],"children":[{"name":"div","attribs":{"style":{"display":"flex","justifyContent":"center"}},"children":[{"name":"img","attribs":{"src":"https://a.espncdn.com/i/teamlogos/nfl/500/lv.png","align":"center","height":24,"width":24},"children":[]}]}]},{"name":"Fragment","attribs":[],"children":[{"name":"div","attribs":{"style":{"display":"flex","justifyContent":"center"}},"children":[{"name":"img","attribs":{"src":"https://a.espncdn.com/i/teamlogos/nfl/500/mia.png","align":"center","height":24,"width":24},"children":[]}]}]},{"name":"Fragment","attribs":[],"children":[{"name":"div","attribs":{"style":{"display":"flex","justifyContent":"center"}},"children":[{"name":"img","attribs":{"src":"https://a.espncdn.com/i/teamlogos/nfl/500/min.png","align":"center","height":24,"width":24},"children":[]}]}]},{"name":"Fragment","attribs":[],"children":[{"name":"div","attribs":{"style":{"display":"flex","justifyContent":"center"}},"children":[{"name":"img","attribs":{"src":"https://a.espncdn.com/i/teamlogos/nfl/500/ne.png","align":"center","height":24,"width":24},"children":[]}]}]},{"name":"Fragment","attribs":[],"children":[{"name":"div","attribs":{"style":{"display":"flex","justifyContent":"center"}},"children":[{"name":"img","attribs":{"src":"https://a.espncdn.com/i/teamlogos/nfl/500/no.png","align":"center","height":24,"width":24},"children":[]}]}]},{"name":"Fragment","attribs":[],"children":[{"name":"div","attribs":{"style":{"display":"flex","justifyContent":"center"}},"children":[{"name":"img","attribs":{"src":"https://a.espncdn.com/i/teamlogos/nfl/500/nyg.png","align":"center","height":24,"width":24},"children":[]}]}]},{"name":"Fragment","attribs":[],"children":[{"name":"div","attribs":{"style":{"display":"flex","justifyContent":"center"}},"children":[{"name":"img","attribs":{"src":"https://a.espncdn.com/i/teamlogos/nfl/500/nyj.png","align":"center","height":24,"width":24},"children":[]}]}]},{"name":"Fragment","attribs":[],"children":[{"name":"div","attribs":{"style":{"display":"flex","justifyContent":"center"}},"children":[{"name":"img","attribs":{"src":"https://a.espncdn.com/i/teamlogos/nfl/500/phi.png","align":"center","height":24,"width":24},"children":[]}]}]},{"name":"Fragment","attribs":[],"children":[{"name":"div","attribs":{"style":{"display":"flex","justifyContent":"center"}},"children":[{"name":"img","attribs":{"src":"https://a.espncdn.com/i/teamlogos/nfl/500/pit.png","align":"center","height":24,"width":24},"children":[]}]}]},{"name":"Fragment","attribs":[],"children":[{"name":"div","attribs":{"style":{"display":"flex","justifyContent":"center"}},"children":[{"name":"img","attribs":{"src":"https://a.espncdn.com/i/teamlogos/nfl/500/sea.png","align":"center","height":24,"width":24},"children":[]}]}]},{"name":"Fragment","attribs":[],"children":[{"name":"div","attribs":{"style":{"display":"flex","justifyContent":"center"}},"children":[{"name":"img","attribs":{"src":"https://a.espncdn.com/i/teamlogos/nfl/500/sf.png","align":"center","height":24,"width":24},"children":[]}]}]},{"name":"Fragment","attribs":[],"children":[{"name":"div","attribs":{"style":{"display":"flex","justifyContent":"center"}},"children":[{"name":"img","attribs":{"src":"https://a.espncdn.com/i/teamlogos/nfl/500/tb.png","align":"center","height":24,"width":24},"children":[]}]}]},{"name":"Fragment","attribs":[],"children":[{"name":"div","attribs":{"style":{"display":"flex","justifyContent":"center"}},"children":[{"name":"img","attribs":{"src":"https://a.espncdn.com/i/teamlogos/nfl/500/ten.png","align":"center","height":24,"width":24},"children":[]}]}]},{"name":"Fragment","attribs":[],"children":[{"name":"div","attribs":{"style":{"display":"flex","justifyContent":"center"}},"children":[{"name":"img","attribs":{"src":"https://a.espncdn.com/i/teamlogos/nfl/500/wsh.png","align":"center","height":24,"width":24},"children":[]}]}]}],"width":40,"style":{"position":"sticky","left":0,"background":"#fff","zIndex":1}},{"accessor":"team","name":"Team","type":"character","format":{"cell":{"digits":1},"aggregated":{"digits":1}},"align":"center","width":60,"style":{"position":"sticky","left":40,"background":"#fff","zIndex":1}},{"accessor":"time_avg_lead","name":"Time Average Lead","type":"numeric","format":{"cell":{"digits":1},"aggregated":{"digits":1}},"align":"center"},{"accessor":"time_avg_wins","name":"Expected Wins","type":"numeric","format":{"cell":{"digits":1},"aggregated":{"digits":1}},"align":"center"},{"accessor":"off_yards_per_snap","name":"Yards/Snap","type":"numeric","format":{"cell":{"digits":1},"aggregated":{"digits":1}},"align":"center"},{"accessor":"off_adj_yards_per_snap","name":"Adj Yards/Snap","type":"numeric","format":{"cell":{"digits":1},"aggregated":{"digits":1}},"align":"center"},{"accessor":"def_yards_per_snap","name":"Yards/Snap","type":"numeric","format":{"cell":{"digits":1},"aggregated":{"digits":1}},"align":"center"},{"accessor":"def_adj_yards_per_snap","name":"Adj Yards/Snap","type":"numeric","format":{"cell":{"digits":1},"aggregated":{"digits":1}},"align":"center"},{"accessor":"yards_per_snap_diff","name":"Yards/Snap Diff","type":"numeric","format":{"cell":{"digits":2},"aggregated":{"digits":2}},"align":"center"},{"accessor":"adj_yards_per_snap_diff","name":"Adj Yards/Snap Diff","type":"numeric","format":{"cell":{"digits":2},"aggregated":{"digits":2}},"align":"center"}],"columnGroups":[{"name":"Time Average Stats","columns":["time_avg_lead","time_avg_wins"]},{"name":"Offense","columns":["off_yards_per_snap","off_adj_yards_per_snap"]},{"name":"Defense","columns":["def_yards_per_snap","def_adj_yards_per_snap"]},{"name":"Differential","columns":["yards_per_snap_diff","adj_yards_per_snap_diff"]}],"defaultSortDesc":true,"defaultSorted":[{"id":"time_avg_lead","desc":true}],"pagination":false,"defaultPageSize":10,"paginationType":"numbers","showPageInfo":true,"minRows":1,"highlight":true,"bordered":true,"height":"675px","theme":{"color":"#878e94","backgroundColor":"#ffffff","borderWidth":"0px","stripedColor":"#f9f9fb","highlightColor":"#f1f3f4","cellPadding":4,"tableStyle":{"fontSize":16},"headerStyle":{"borderWidth":"1px","padding":"7px","borderTop":"1px solid #595d63","backgroundColor":"#595d63","textTransform":"uppercase","borderColor":"#595d63","color":"#ffffff","transitionDuration":"0.1s","&:hover[aria-sort]":{"backgroundColor":"#4d5056","color":"#ffffff"},"&[aria-sort='ascending']":{"backgroundColor":"#393c40","color":"#ffffff","boxShadow":"inset 0 3px 0 0 #ffffff"},"&[aria-sort='descending']":{"backgroundColor":"#393c40","color":"#ffffff","boxShadow":"inset 0 -3px 0 0 #ffffff"},"fontSize":12,"fontWeight":"bold"},"groupHeaderStyle":{"&:not(:empty)":{"backgroundColor":"#e4e8ed","textTransform":"uppercase","fontWeight":"bold","color":"#878e94","fontSize":12,"boxShadow":"inset 3px 0 0 0 #ffffff"}},"rowSelectedStyle":{"backgroundColor":"#e4e8ed"},"inputStyle":{"backgroundColor":"#ffffff","color":"#878e94"},"searchInputStyle":{"fontSize":"14px","textTransform":"uppercase","backgroundColor":"#ffffff","color":"#878e94","&:focus":{"color":"#878e94"}},"selectStyle":{"backgroundColor":"#073c57","color":"#ffffff","borderColor":"#ffffff","outlineColor":"#ffffff"},"paginationStyle":{"textTransform":"uppercase","fontSize":"15px"},"pageButtonStyle":{"textTransform":"uppercase","fontSize":"15px","backgroundColor":"#ffffff","color":"#164861","&:hover":{"backgroundColor":"#052c3f","color":"#ffffff"}},"pageButtonHoverStyle":{"backgroundColor":"#052c3f","color":"#ffffff"},"pageButtonActiveStyle":{"backgroundColor":"#073c57","color":"#ffffff"},"pageButtonCurrentStyle":{"backgroundColor":"#073c57","color":"#ffffff"}},"dataKey":"87e9a8a170355b8bdecde73e20adbf26"},"children":[]},"class":"reactR_markup"},"evals":[],"jsHooks":[]}</script>
 </div>
 <h3 id="glossary">Glossary</h3>
 <p>Description of Metrics:</p>
